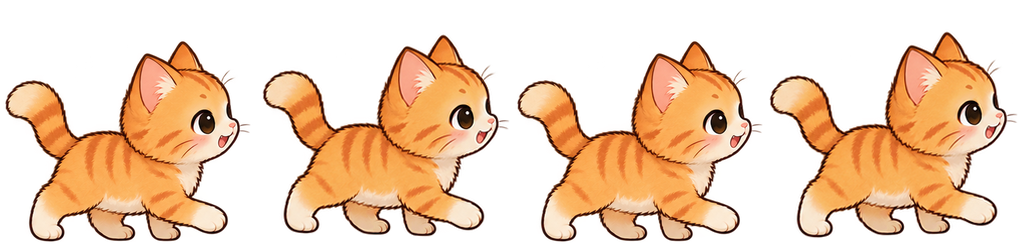
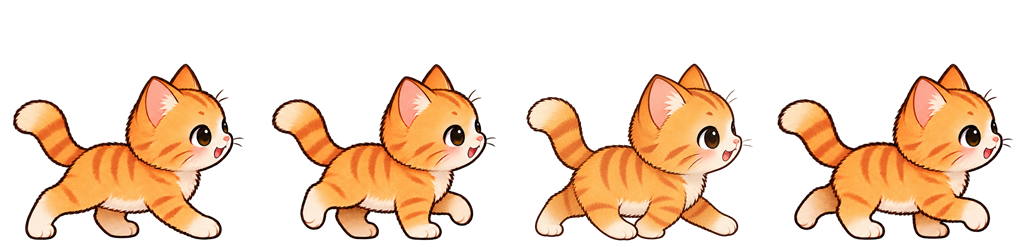
v0.8.4: redraw Amber gait and calibrate directional walking

diff --git a/tests/ReliabilityProbe/AmberWalkChecks.cs b/tests/ReliabilityProbe/AmberWalkChecks.cs
@@ -1,0 +1,82 @@
+using System.IO;
+using System.Reflection;
+using System.Windows;
+using System.Windows.Media;
+using System.Windows.Media.Imaging;
+using DesktopPet.App.Core;
+using DesktopPet.App.Renderer;
+using DesktopPet.Core;
+
+internal static partial class Program
+{
+    private static void RunAmberWalkChecks()
+    {
+        Check("Amber right-facing gait mirrors every frame and keeps idle orientation", () =>
+        {
+            var atlas = SpriteAtlas.LoadSkin(Paths.Assets, "amber");
+            var walk = atlas.States["walk"];
+            Require(walk.Facing == SkinFacing.Right, "right-facing artwork has no direction declaration");
+            var alphaBounds = typeof(SpriteAtlas).GetMethod("AlphaBBox", BindingFlags.Static | BindingFlags.NonPublic)!;
+            var ground = walk.Frames.Select(frame => (Int32Rect)alphaBounds.Invoke(null, [frame.Bitmap])!).ToArray();
+            Require(ground.All(box => !box.IsEmpty && box.X > 0 && box.Y > 0 && box.X + box.Width < 256 && box.Y + box.Height < 247), "gait lost transparent margins");
+            Require(ground.Max(box => box.Y + box.Height) - ground.Min(box => box.Y + box.Height) <= 1, "contact baseline shifts between frames");
+            var renderer = new PetRenderer(atlas) { Scale = 4 }; renderer.Play(PetState.Walk);
+            var animator = Field<FrameAnimator>(renderer, "_animator");
+            for (var frame = 0; frame < walk.Frames.Length; frame++)
+            {
+                animator.SeekFrame(frame); renderer.SetWalkDirection(75);
+                var right = Pixels(RenderAnimationFrame(renderer));
+                renderer.SetWalkDirection(-75); var left = Pixels(RenderAnimationFrame(renderer));
+                Require(!left.SequenceEqual(right), "heading change did not turn the cat");
+                for (var y = 0; y < 128; y++)
+                for (var x = 0; x < 128; x++)
+                for (var channel = 0; channel < 4; channel++)
+                    Require(left[(y * 128 + x) * 4 + channel] == right[(y * 128 + 127 - x) * 4 + channel], "gait frame mirrored incorrectly");
+            }
+            renderer.Play(PetState.Idle); var idle = Pixels(RenderAnimationFrame(renderer));
+            renderer.SetWalkDirection(75);
+            Require(idle.SequenceEqual(Pixels(RenderAnimationFrame(renderer))), "walking heading leaked into idle pose");
+            Require(Math.Abs(renderer.WalkSpeed - 75) < .001, "default gait speed changed");
+            renderer.Scale = 2; Require(Math.Abs(renderer.WalkSpeed - 37.5) < .001, "gait speed ignored size");
+            renderer.SetMood(PetMood.Happy); Require(Math.Abs(renderer.WalkSpeed - 48.75) < .001, "gait speed ignored mood");
+        });
+        var output = Environment.GetEnvironmentVariable("NEKO_CAPTURE_AMBER_WALK");
+        if (!string.IsNullOrWhiteSpace(output)) CaptureAmberWalkPreview(output);
+    }
+
+    private static void CaptureAmberWalkPreview(string output)
+    {
+        Directory.CreateDirectory(output);
+        var renderer = new PetRenderer(SpriteAtlas.LoadSkin(Paths.Assets, "amber")) { Scale = 4 };
+        renderer.Play(PetState.Walk);
+        var encoder = new GifBitmapEncoder();
+        for (var index = 0; index < 48; index++)
+        {
+            var right = index < 24;
+            renderer.SetWalkDirection(right ? renderer.WalkSpeed : -renderer.WalkSpeed);
+            var x = 50 + renderer.WalkSpeed * (right ? index : 48 - index) * .1;
+            var visual = new DrawingVisual();
+            RenderOptions.SetBitmapScalingMode(visual, BitmapScalingMode.HighQuality);
+            using (var dc = visual.RenderOpen())
+            {
+                dc.DrawRectangle(new SolidColorBrush(Color.FromRgb(35, 32, 29)), null, new Rect(0, 0, 400, 200));
+                dc.DrawText(new FormattedText(right ? "Walk right" : "Walk left", System.Globalization.CultureInfo.InvariantCulture,
+                    FlowDirection.LeftToRight, new Typeface("Segoe UI"), 16, Brushes.Wheat, 1), new Point(16, 12));
+                var floor = new Pen(new SolidColorBrush(Color.FromRgb(100, 89, 75)), 1);
+                dc.DrawLine(floor, new Point(8, 175), new Point(392, 175));
+                for (var mark = 16; mark < 400; mark += 32) dc.DrawLine(floor, new Point(mark, 175), new Point(mark, 180));
+                dc.PushTransform(new TranslateTransform(x, 50)); renderer.Draw(dc); dc.Pop();
+            }
+            var bitmap = new RenderTargetBitmap(400, 200, 96, 96, PixelFormats.Pbgra32); bitmap.Render(visual);
+            var palette = new BitmapPalette(bitmap, 256);
+            encoder.Frames.Add(BitmapFrame.Create(new FormatConvertedBitmap(bitmap, PixelFormats.Indexed8, palette, 0)));
+            if (index is 0 or 2 or 4 or 5 or 24)
+            {
+                var png = new PngBitmapEncoder(); png.Frames.Add(BitmapFrame.Create(bitmap));
+                using var still = File.Create(Path.Combine(output, $"amber-walk-{index:D2}.png")); png.Save(still);
+            }
+            renderer.Tick(TimeSpan.FromSeconds(.1));
+        }
+        SaveTimedCharacterGif(encoder, Path.Combine(output, "amber-walk.gif"), 48, 10);
+    }
+}

diff --git a/tests/ReliabilityProbe/CharacterChecks.cs b/tests/ReliabilityProbe/CharacterChecks.cs
@@ -195,6 +195,12 @@ internal static partial class Program
                 }
                 renderer.Tick(TimeSpan.FromMilliseconds(100));
             }
+            SaveTimedCharacterGif(encoder, Path.Combine(output, skin + "-character.gif"), 80, 10);
+        }
+    }
+
+    private static void SaveTimedCharacterGif(System.Windows.Media.Imaging.GifBitmapEncoder encoder, string path, int frameCount, ushort delay)
+    {
             using var stream = new MemoryStream(); encoder.Save(stream);
             var bytes = stream.ToArray();
             // WIC's GIF encoder drops frame-delay metadata. Fix the container fields without changing pixels.
@@ -215,7 +221,7 @@ internal static partial class Program
                 }
                 else if (bytes[offset] == 0x2c)
                 {
-                    timed.Write(new byte[] { 0x21, 0xf9, 4, 4, 10, 0, 0, 0 }); // full opaque frame, 100ms
+                    timed.Write(new byte[] { 0x21, 0xf9, 4, 4, (byte)delay, (byte)(delay >> 8), 0, 0 });
                     var packed = bytes[offset + 9]; offset += 10;
                     if ((packed & 128) != 0) offset += 3 * (1 << ((packed & 7) + 1));
                     offset++; SkipBlocks();
@@ -223,9 +229,8 @@ internal static partial class Program
                 }
                 else throw new InvalidDataException("Invalid preview GIF structure");
             }
-            Require(images == 80, "preview images missing");
+            Require(images == frameCount, "preview images missing");
             timed.WriteByte(0x3b);
-            File.WriteAllBytes(Path.Combine(output, skin + "-character.gif"), timed.ToArray());
-        }
+            File.WriteAllBytes(path, timed.ToArray());
     }
 }

diff --git a/tests/ReliabilityProbe/Program.cs b/tests/ReliabilityProbe/Program.cs
@@ -32,6 +32,7 @@ internal static partial class Program
         RunResidencyChecks(root);
         RunCharacterChecks(root);
         RunAmberAnimationChecks(root);
+        RunAmberWalkChecks();
         RunFocusChecks();
         RunSkinWorkbenchChecks(root);
         RunAnchorChecks(root);

diff --git a/docs/amber-walk.md b/docs/amber-walk.md
@@ -1,0 +1,46 @@
+# 琥珀行走动画（v0.8.4）
+
+2026-10-29。使用内置 imagegen 工具绘制。保留琥珀朝右的手绘橘猫外观，替换原来腿部变化不足的四帧行走素材。最终文件为 `neko-assets/amber/neko_walk.png`，仍是横向四帧、每帧 256×247，不改变其他动作。
+
+## 素材与整理
+
+整张图集的第三格没有生成足够清楚的反向落脚，因此单独绘制反向关键姿态，选入最终第三帧。不是把图片的细微变化或散列差异当成步态合格。最终包含：前伸落脚、抬脚经过、反向落脚、另一侧抬脚经过。头部与身体注册仍是人工目视校准，后续可继续细修。
+
+选用的原图保存在 Git 忽略的 `neko-assets/_airaw/`：
+
+| 文件 | SHA-256 |
+| --- | --- |
+| amber-walk-v2.png | a9b62c02dd736028a3a4927d49d8bb6544cbf1a2fb5c95d4ffda57055713ae35 |
+| amber-walk-contact-b.png | c7f63b359899816ff84de45b443135c90129243a42bc370643eddad6470dd390 |
+
+背景 RGB 虽含棕色，检查背景像素的 alpha 为 0；不可只根据生图预览的 RGB 外观判断透明失败。整理时保留生成的 alpha，不按颜色抠图。工具只分格、缩放与底部对齐，不绘制或变形腿部。行走各帧按最大 238×178 的内容范围统一显示大小，落脚底部对齐源图 y=241；单独原图也按相同规则缩放，避免整只猫突然变大。
+
+```powershell
+./tools/pack_amber_animation.ps1 -ActionSet Walk `
+  -Source neko-assets/_airaw/amber-walk-v2.png `
+  -ContactBSource neko-assets/_airaw/amber-walk-contact-b.png
+```
+
+原 IdleWork 用法仍保持不变；本轮将它输出到独立目录，与现有待机、工作和缩略图逐字节比较，三者一致。
+
+## 接入与验收
+
+- walk 声明 facing=right，向左移动时运行时镜像全身，回到待机后使用原待机朝向。
+- 6fps、四帧、walkStride=12.5。按前伸到回收落脚位置的约 50 源像素半周期位移，取整周期约 100 源像素，即 12.5 逻辑像素作初始校准。普通情绪、4 倍率时速度为 12.5×4×6÷4=75 DIP/s。
+- 校准只改善平均步幅和循环速度的一致性，不保证每一接地时刻完全无滑移。四帧关键姿态不等于连续骨骼动画。不得把这些参数当成其他皮肤的通用步幅。
+- 自动回归检查四帧左右逐像素镜像、透明边距、接地基线、大小/情绪变化下的速度，以及离开行走后的朝向恢复。动画质量仍需默认大小目视检查。
+- NEKO_CAPTURE_AMBER_WALK 可让 ReliabilityProbe 导出真实渲染器的双向移动 GIF，固定地面刻度用于观察接地与位移。预览不修改用户配置，工作模式下仍保持原使用方式；需要自动走动时由用户启用原开关。
+
+## 选用原画的最终提示词
+
+内置工具，两次均设置 transparent_background=true。
+
+图集修订（输入为以旧 amber/neko_walk.png 与当前 neko_idle.png 为参考生成的四格草稿）：
+
+> Edit target: the supplied 2x2 orange kitten walking sprite sheet. Keep this exact cat identity, face, proportions, orange/cream palette and hand-drawn rendering. Two precise corrections required: (1) REMOVE ALL brown gradient, halo, ground and backdrop. Background pixels must have ALPHA ZERO, actual transparent PNG, with no colored glow, no checkerboard drawn. No cast shadows. (2) Correct the BOTTOM LEFT cat (frame3) to be the OPPOSITE footfall of TOP LEFT: its NEAR FRONT LEG must extend BACK toward the LEFT with its paw grounded underneath chest, and its NEAR HIND LEG must extend FORWARD toward the RIGHT with its paw grounded beneath the belly. Its FAR FRONT LEG extends forward right, FAR HIND extends back left. This must read as the reversed stride, not another copy of top-left pose. TOP RIGHT and BOTTOM RIGHT are opposite passing poses with visibly raised paws. Keep four equally sized cells, consistent right-facing side view, fixed head and body registration, fixed ground baseline, exactly four anatomically attached legs per cat, all extremities inside each cell with generous clear margins. Preserve everything else. Deliver the 2x2 production sheet on real transparent alpha.
+
+单独反向落脚帧（输入为旧 amber/neko_walk.png，结果替换图集第三格）：
+
+> Use case: identity-preserve. Draw ONE animation keyframe of the EXACT orange kitten in the reference, not a sheet, just one whole kitten facing RIGHT in side view, same hand-drawn orange tabby, large brown eye, cream muzzle and paw tips, happy little face, upright curled tail. This is the OPPOSITE LEG POSITION from the reference: the FORELEG CLOSEST TO VIEWER points diagonally BACKWARD to the LEFT, with its cream paw touching ground at the middle of the belly. The HIND LEG CLOSEST TO VIEWER points diagonally FORWARD to the RIGHT, with its paw touching ground just under the middle belly, slightly left of the near front paw. The far front leg reaches FORWARD RIGHT to ground, the far rear leg reaches BACK LEFT to ground, in darker orange. Exactly four attached legs. Cat's head and body keep the exact same silhouette and proportions as the reference, only the leg articulation changes. Do not draw the near front leg reaching right: it must sweep BACK LEFT. Normal relaxed walking contact, not a leap. Fully visible from tail tip to frontmost paw, generous 10% transparent padding. Genuine alpha transparency, no backdrop or shadow, no text or labels. ONE CAT ONLY.
+
+另一版整图合成未采用；最终选择上述图集的第一、二、四帧及单独反向关键姿态。本轮没有更新睡醒、趴下和抚摸收势。

diff --git a/docs/roadmap.md b/docs/roadmap.md
@@ -35,3 +35,5 @@
 根据试用反馈，近期优先回到角色精品化：先完成琥珀的待机与工作，再补真正交替迈腿的步态、睡醒和抚摸收势，之后完善原始像素猫并逐套扩展。每批检查默认大小的动作辨识、角色一致性和实际运行节奏，不能仅按状态数或帧数验收。再继续工作台过渡串联与遮罩编辑、日常界面、扩展接入及稳定分发。
 
 角色精品化第三批（v0.8.3）：琥珀待机与工作四帧重新绘制；待机采用短眨眼和长停留，工作跟随键鼠输入，停止输入回到休息帧并保留眨眼。新增可复用逐帧停留和工作休息/眨眼帧声明。[素材记录](amber-animation.md)。本批不宣称完整步态、全部互动或其他皮肤已升级。
+
+角色精品化第四批（v0.8.4）：琥珀行走四帧重绘，新增反向落脚与抬脚关键姿态、朝右声明及随大小/情绪变化的步幅配置；双向移动预览与逐帧镜像回归已接入。[步态记录](amber-walk.md)。后续继续睡醒、趴下与抚摸收势，再推广至其他皮肤；四帧步态仍需默认大小持续试用，不视为零打滑或完整骨骼动画。

diff --git a/CHANGELOG.md b/CHANGELOG.md
@@ -7,6 +7,13 @@
 🔴 **版本号上限规则（2026-10-14）**：patch **不超过 99** —— 到 `v0.1.99` 后下一个版本**直接跳 `v0.2.0`**
 （不出现 `v0.1.100`）。`tools/check_version.py` 会拒绝 patch > 99 并给出应改成的版本号。
 
+## [0.8.4] - 2026-10-29
+
+- 重绘「琥珀」四帧行走，补充前后脚不同落脚与抬脚姿态，保留手绘橘猫风格和透明背景。
+- 声明原画朝右，向左行走时镜像整只猫；调整为 6fps、12.5 逻辑像素步幅，默认倍率下约 75 DIP/s，速度继续跟随大小和情绪。
+- 素材整理工具支持行走图集及单独绘制的反向落脚帧；原待机、工作与缩略图打包结果逐字节保持一致。
+- 增加逐帧左右镜像、透明边距、落脚基线及速度回归，提供真实渲染器的双向移动 GIF。自动走动仍由原开关控制；未宣称零打滑，睡醒和抚摸过渡仍待重绘。
+
 ## [0.8.3] - 2026-10-29
 
 - 重绘「琥珀」待机和工作四帧：待机包含短暂闭眼与尾巴变化，工作包含左右爪交替抬起和按下，同步设置页缩略图。

diff --git a/README.en.md b/README.en.md
@@ -28,7 +28,7 @@ The project includes 18 built-in plugins, covering focus, tasks, notes, weather,
 3. Right-click the cat to open its menu, use the system tray to access settings, and drag the cat to reposition it.
 4. Open the focus timer or to-do list from the menu. In Settings → Appearance, change skins, adjust sizes, or open the skin workbench.
 
-Animation and gaze support vary by skin. Amber now has an idle blink and alternating paw taps driven by keyboard and mouse activity; other actions and skins are being improved gradually.
+Animation and gaze support vary by skin. Amber now has an idle blink, alternating paw taps driven by keyboard and mouse activity, and a walking cycle that faces its travel direction; other actions and skins are being improved gradually.
 
 Focus progress lasts only for the current app run. Closing the timer panel keeps the timer running; exiting Neko or disabling the Pomodoro plugin discards the current progress. Extract skin ZIP packages before importing the folder containing `skin.json`.
 

diff --git a/README.md b/README.md
@@ -30,7 +30,7 @@
 3. 右键猫咪打开功能菜单，通过托盘进入设置；拖动猫咪调整位置。
 4. 从菜单打开专注计时或待办清单；在「设置 → 外观」更换皮肤、调整大小或打开皮肤工作台。
 
-不同皮肤的动画和眼神支持有所不同。「琥珀」已更新待机眨眼及跟随键鼠输入的交替敲击；其他动作与皮肤仍在逐步完善。
+不同皮肤的动画和眼神支持有所不同。「琥珀」已更新待机眨眼、跟随键鼠输入的交替敲击和双向行走步态；其他动作与皮肤仍在逐步完善。
 
 专注进度仅保留在本次运行中；关闭计时面板后继续计时，退出程序或禁用番茄钟插件会清除当前进度。皮肤 ZIP 需先解压，再选择包含 `skin.json` 的目录导入。
 

diff --git a/docs/skin-motion.md b/docs/skin-motion.md
@@ -45,6 +45,8 @@ v0.6.1 的原始 pixel 皮肤已有五组专用四帧动作：sleep_enter（8fps
 
 验证预览：ReliabilityProbe 设置环境变量 NEKO_CAPTURE_CHARACTER 后，会从真实渲染器导出 pixel、pixel_redraw 与 amber 的动作 GIF，保存在指定目录。预览用于检查姿态和衔接，不能代替默认大小和多 DPI 的实机观感检查。
 
+v0.8.4 起设置 NEKO_CAPTURE_AMBER_WALK 可单独导出琥珀的双向移动 GIF：按真实渲染器的步幅速度在固定地面刻度上往返，不仅是原地播放素材。不会改动用户的皮肤、模式或自动走动开关。
+
 ## 逐帧停留与输入工作帧（v0.8.3）
 
 以下可选字段放在 states 的单个动作对象中，旧皮肤无需修改：
